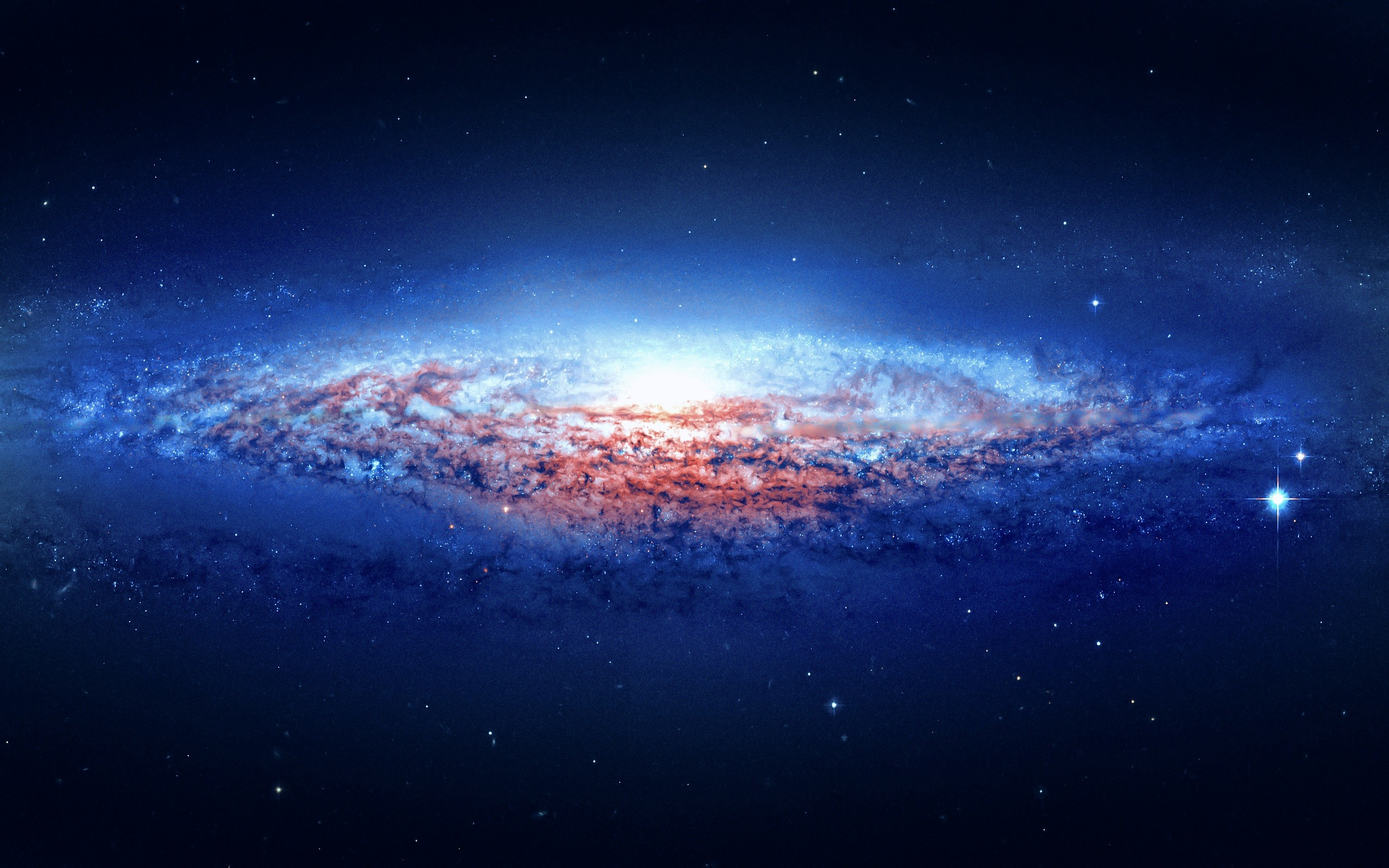
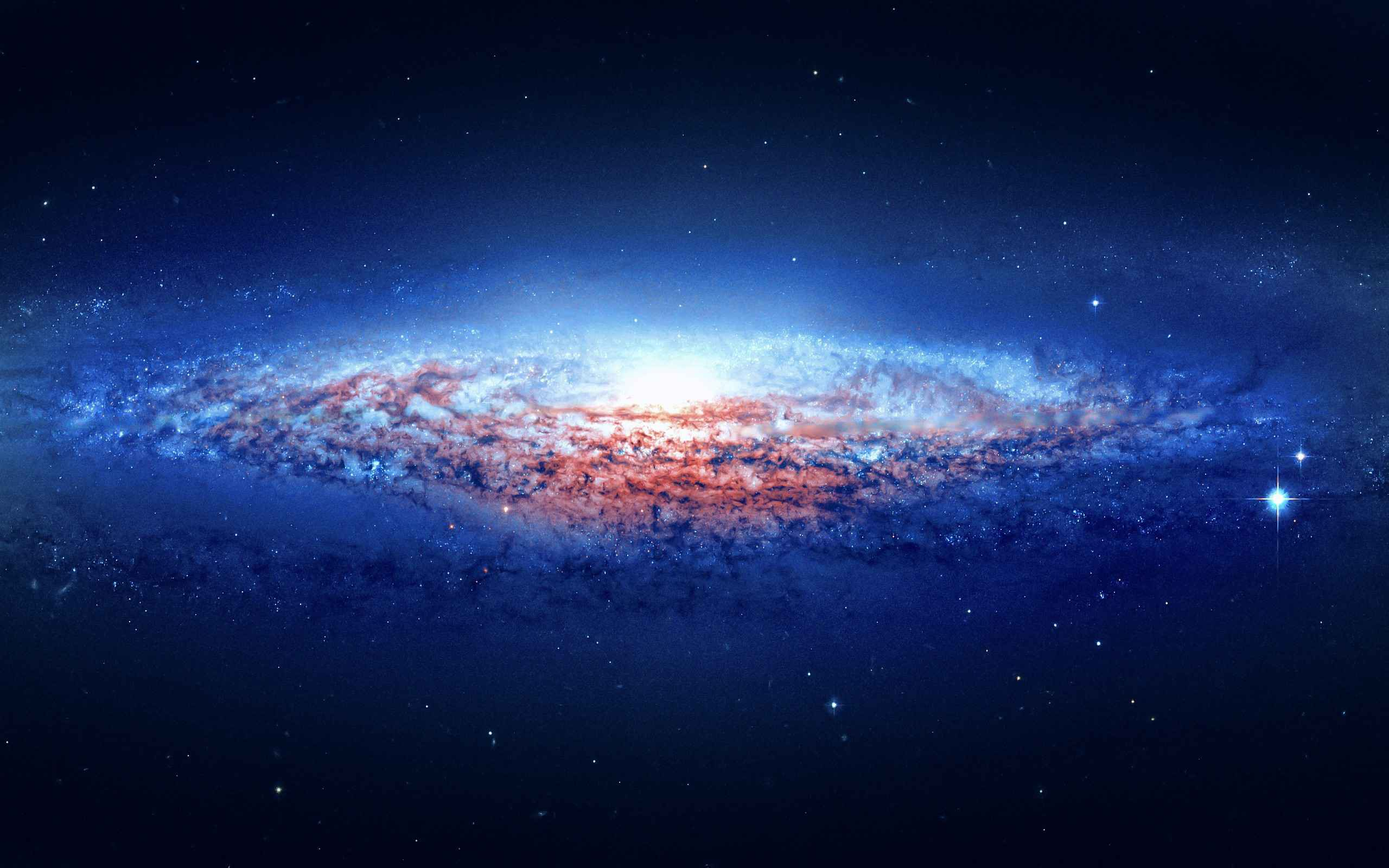
Big fixes
Styled Events and Exhibitions page.
Compressed images.

diff --git a/Activities/index.html b/Activities/index.html
@@ -11,92 +11,104 @@
   </header>
   <body>
     <section class="subject">
-      <div class="subject_img">
-        <img
-          src="/images/Moon cycle.jpg"
-          alt="Picture showing the moon cycle"
-        />
+      <img
+        class="subject_img"
+        src="/images/Moon cycle.jpg"
+        alt="Picture showing the moon cycle"
+      />
+      <div class="subject_text">
+        <h2 class="subject_h">Cosmology</h2>
+        <p class="subject_p">
+          Explore the wonders of our cosmos. Our fantastic exhibition, "The Sky
+          Above Us", explores the night sky and what we can see and know about
+          the universe around us. We'll locate the various constellations and
+          galaxies that can be seen and learn a bit about the early navigators
+          who used the stars to travel by. Follow the journey of our solar
+          exploration: from early Arab traders, to Galileo's telescope, to the
+          latest exploration of the planets in our solar system.
+        </p>
       </div>
-      <h2 class="subject_h">Cosmology</h2>
-      <p class="subject_p">
-        Explore the wonders of our cosmos. Our fantastic exhibition, "The Sky
-        Above Us", explores the night sky and what we can see and know about the
-        universe around us. We'll locate the various constellations and galaxies
-        that can be seen and learn a bit about the early navigators who used the
-        stars to travel by. Follow the journey of our solar exploration: from
-        early Arab traders, to Galileo's telescope, to the latest exploration of
-        the planets in our solar system.
-      </p>
     </section>
 
     <section class="subject">
-      <div class="subject_img">
-        <img src="/images/biology.jpg" alt="Man looking through microscope" />
+      <img
+        class="subject_img"
+        src="/images/biology.jpg"
+        alt="Man looking through microscope"
+      />
+      <div class="subject_text">
+        <h2 class="subject_h">Biology and Medicine</h2>
+        <p class="subject_p">
+          From micro-organisms to the human body, major breakthroughs in biology
+          are offering us unique insights into the great wonders of the tiny
+          world. For many people their life expectancy is much longer and their
+          quality of life much improved, thanks to the growth of our
+          understanding of medicine. Over a series of exhibits we explore the
+          history of medicine and take a look at some major breakthroughs
+          including the discovery of penicillin and the first heart transplant.
+          Many of our great medicinal discoveries have come not only from the
+          lab, but also from observing animals in the wild. Often our fellow
+          creatures have beat us to it.
+        </p>
       </div>
-
-      <h2 class="subject_h">Biology and Medicine</h2>
-      <p class="subject_p">
-        From micro-organisms to the human body, major breakthroughs in biology
-        are offering us unique insights into the great wonders of the tiny
-        world. For many people their life expectancy is much longer and their
-        quality of life much improved, thanks to the growth of our understanding
-        of medicine. Over a series of exhibits we explore the history of
-        medicine and take a look at some major breakthroughs including the
-        discovery of penicillin and the first heart transplant. Many of our
-        great medicinal discoveries have come not only from the lab, but also
-        from observing animals in the wild. Often our fellow creatures have beat
-        us to it.
-      </p>
     </section>
 
     <section class="subject">
-      <div class="subject_img">
-        <img src="/images/Ecology.jpg" alt="Different species of giant ants" />
+      <img
+        class="subject_img"
+        src="/images/Ecology.jpg"
+        alt="Different species of giant ants"
+      />
+      <div class="subject_text">
+        <h2 class="subject_h">Ecology</h2>
+        <p class="subject_p">
+          As we learn more and more of the impact humans are having on the
+          planet, the more important it becomes that scientists explore how to
+          create a sustainable future not just for humans but for the whole
+          planet. In our ecology section of the museum, we unpack the dangers we
+          currently face including global warming, extinction of species, and
+          pollution. But we also focus on the positive ways we can all
+          contribute to a brighter future.
+        </p>
       </div>
-
-      <h2 class="subject_h">Ecology</h2>
-      <p class="subject_p">
-        As we learn more and more of the impact humans are having on the planet,
-        the more important it becomes that scientists explore how to create a
-        sustainable future not just for humans but for the whole planet. In our
-        ecology section of the museum, we unpack the dangers we currently face
-        including global warming, extinction of species, and pollution. But we
-        also focus on the positive ways we can all contribute to a brighter
-        future.
-      </p>
     </section>
 
     <section class="subject">
-      <div class="subject_img">
-        <img src="/images/Robotics.jpg" alt="Wireframe of Dodecahedrons" />
+      <img
+        class="subject_img"
+        src="/images/Robotics.jpg"
+        alt="Wireframe of Dodecahedrons"
+      />
+      <div class="subject_text">
+        <h2 class="subject_h">Robotics and AI</h2>
+        <p class="subject_p">
+          The information revolution is here and robotics and artificial
+          intelligence are the science of the future. From useful home
+          applications of AI to industrial uses of robotics, the future is here.
+          You can even say hello and shake the hand of Rob the Robot.
+        </p>
       </div>
-      <h2 class="subject_h">Robotics and AI</h2>
-      <p class="subject_p">
-        The information revolution is here and robotics and artificial
-        intelligence are the science of the future. From useful home
-        applications of AI to industrial uses of robotics, the future is here.
-        You can even say hello and shake the hand of Rob the Robot.
-      </p>
     </section>
 
     <section class="subject">
-      <div class="subject_img">
-        <img
-          src="/images/evolution.jpg"
-          alt="Bone structures throughout evolution"
-        />
+      <img
+        class="subject_img"
+        src="/images/evolution.jpg"
+        alt="Bone structures throughout evolution"
+      />
+      <div class="subject_text">
+        <h2 class="subject_h">Evolution</h2>
+        <p class="subject_p">
+          For centuries, philosophers and scientists have wrestled with the
+          question of our origins. Where do we come from and how did we get
+          here? Since Darwin proposed his theory of evolution we have had a
+          framework for exploring and understanding our place in this world.
+          Discover the origins of life on this planet and how the species we
+          know today have evolved our time. You can also take some time to meet
+          a few of the creatures who didn't survive, including our Woolly
+          Mammoth, the Dodos, and a number of dinosaurs too.
+        </p>
       </div>
-      <h2 class="subject_h">Evolution</h2>
-      <p class="subject_p">
-        For centuries, philosophers and scientists have wrestled with the
-        question of our origins. Where do we come from and how did we get here?
-        Since Darwin proposed his theory of evolution we have had a framework
-        for exploring and understanding our place in this world. Discover the
-        origins of life on this planet and how the species we know today have
-        evolved our time. You can also take some time to meet a few of the
-        creatures who didn't survive, including our Woolly Mammoth, the Dodos,
-        and a number of dinosaurs too.
-      </p>
     </section>
   </body>
   <footer>

diff --git a/Upcoming Events/index.html b/Upcoming Events/index.html
@@ -11,42 +11,52 @@
   </header>
   <body>
     <section class="subject">
-      <div class="subject_img">
-        <img src="/images/astronaut.jpg" alt="Astronaut" />
+      <img class="subject_img" src="/images/astronaut.jpg" alt="Astronaut" />
+      <div class="subject_text">
+        <h2 class="subject_h">Visiting Professor of Aeronautics</h2>
+        <p class="subject_p">
+          It is our pleasure to announce that Prof Sheila Widnall from the
+          Massachusetts Institute of Technology will be delivering 3 lectures on
+          the development of aeronautics and where the future lies in this
+          exciting "space".
+        </p>
       </div>
-      <h2 class="subject_h">Visiting Professor of Aeronautics</h2>
-      <p class="subject_p">
-        It is our pleasure to announce that Prof Sheila Widnall from the
-        Massachusetts Institute of Technology will be delivering 3 lectures on
-        the development of aeronautics and where the future lies in this
-        exciting "space".
-      </p>
     </section>
     <section class="subject">
-      <div class="subject_img">
-        <img src="/images/scientist.jpg" alt="Scientist operating machine" />
+      <img
+        class="subject_img"
+        src="/images/scientist.jpg"
+        alt="Scientist operating machine"
+      />
+
+      <div class="subject_text">
+        <h2 class="subject_h">Energetica Exhibition on Loan</h2>
+        <p class="subject_p">
+          On loan from the NEMO Science Museum in Amsterdam, the Energetica
+          exhibition is coming to the Community Science Museum. It's a series of
+          installations that allow visitors to experience the power of the
+          elements as we harness them. From solar energy powering lighting, to
+          "Wind Island" that shows how turbines are able to use and control wind
+          to create power.
+        </p>
       </div>
-      <h2 class="subject_h">Energetica Exhibition on Loan</h2>
-      <p class="subject_p">
-        On loan from the NEMO Science Museum in Amsterdam, the Energetica
-        exhibition is coming to the Community Science Museum. It's a series of
-        installations that allow visitors to experience the power of the
-        elements as we harness them. From solar energy powering lighting, to
-        "Wind Island" that shows how turbines are able to use and control wind
-        to create power.
-      </p>
     </section>
     <section class="subject">
-      <div class="subject_img">
-        <img src="/images/Entryhall.jpg" alt="Our Entry Hall" />
+      <img
+        class="subject_img"
+        src="/images/Entryhall.jpg"
+        alt="Our Entry Hall"
+      />
+
+      <div class="subject_text">
+        <h2 class="subject_h">Night in the Museum</h2>
+        <p class="subject_p">
+          Get your family together for an exciting night in the museum as you
+          sleep over beside dinosaurs and science displays. Bring your own
+          sleeping bag and get ready to rough it as we go exploring the wonders
+          of science.
+        </p>
       </div>
-      <h2 class="subject_h">Night in the Museum</h2>
-      <p class="subject_p">
-        Get your family together for an exciting night in the museum as you
-        sleep over beside dinosaurs and science displays. Bring your own
-        sleeping bag and get ready to rough it as we go exploring the wonders of
-        science.
-      </p>
     </section>
   </body>
   <footer>

diff --git a/CSS/stylesheet.css b/CSS/stylesheet.css
@@ -6,8 +6,14 @@
 
 .subject {
     display: flex;
+    flex-wrap: wrap;
     flex-direction: row;
+    justify-content: center;
     background-color: #0E0E0C;
+    width: 100%;
+    padding-top: 100px;
+    padding-bottom: 100px;
+    gap: 50px;
 }
 
 .subject:nth-of-type(even) {
@@ -16,10 +22,15 @@
 }
 
 .subject_img {
-    
+    max-width: 600px;
+    max-height: 400px;
+    width: 100%;
+    height: 100%;
 }
 
-.subject_p {
-    color: white;
+.subject_text{
+    display: flex;
+    flex-wrap: wrap;
+    max-width: 600px;
+    align-content: center;
 }
-

diff --git a/CSS/_global.css b/CSS/_global.css
@@ -1,11 +1,11 @@
 header {
     display: flex;
+    flex-wrap: wrap;
     justify-content: center;
     align-items: center;
     max-height: 150px;
     min-height: 150px;
     background-color: #223181;
-    margin-bottom: 150px;
     padding: 0;
 }
 

diff --git a/CSS/_home.css b/CSS/_home.css
@@ -32,4 +32,5 @@
     grid-template-columns: repeat(auto-fit, minmax(300px, 1fr));
     gap: 50px;
     margin-bottom: 150px;
+    margin-top: 150px;
     }
